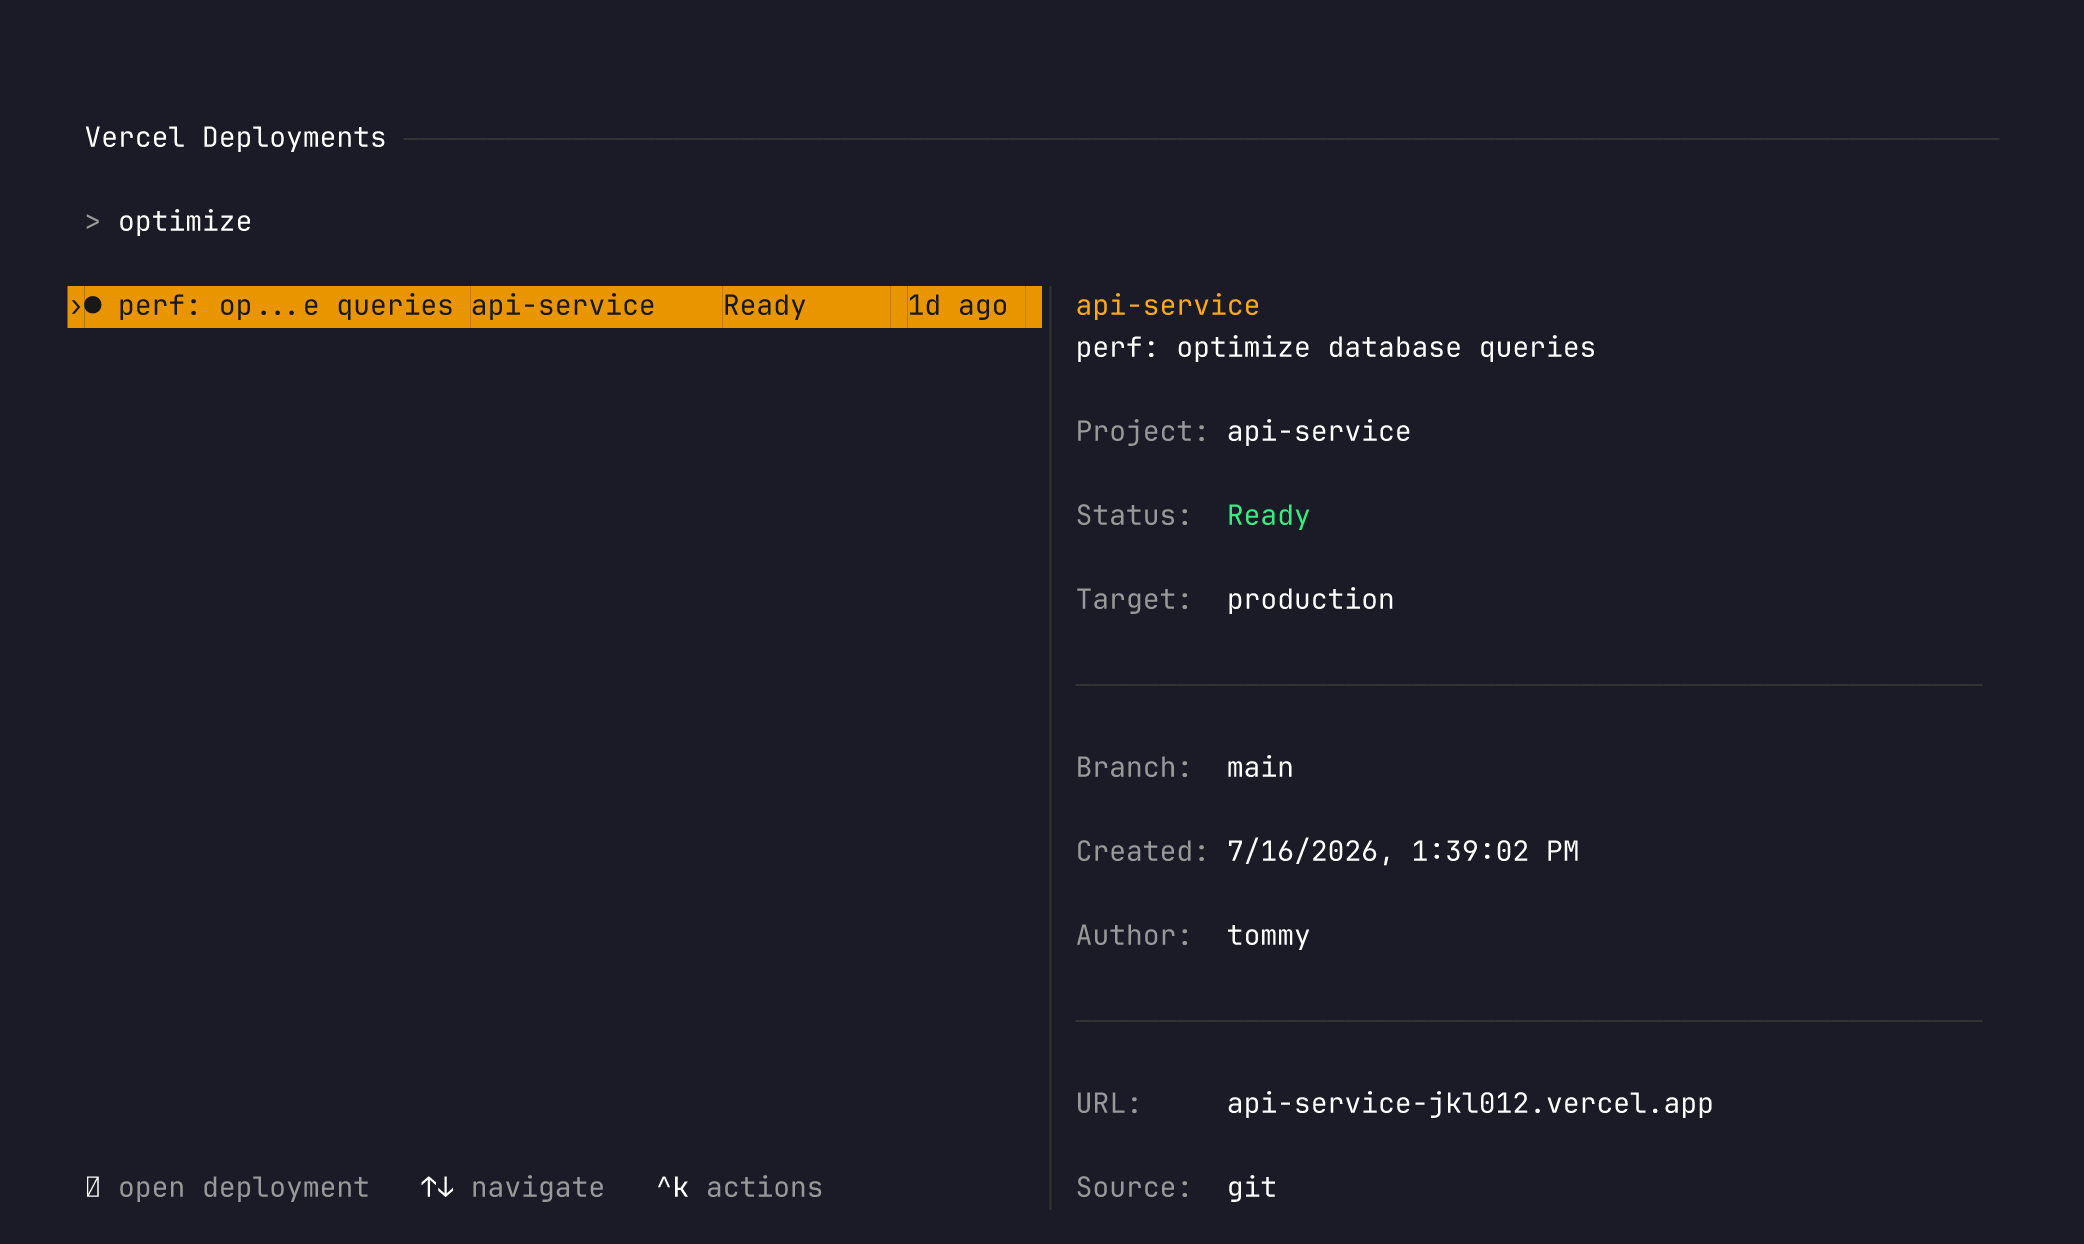
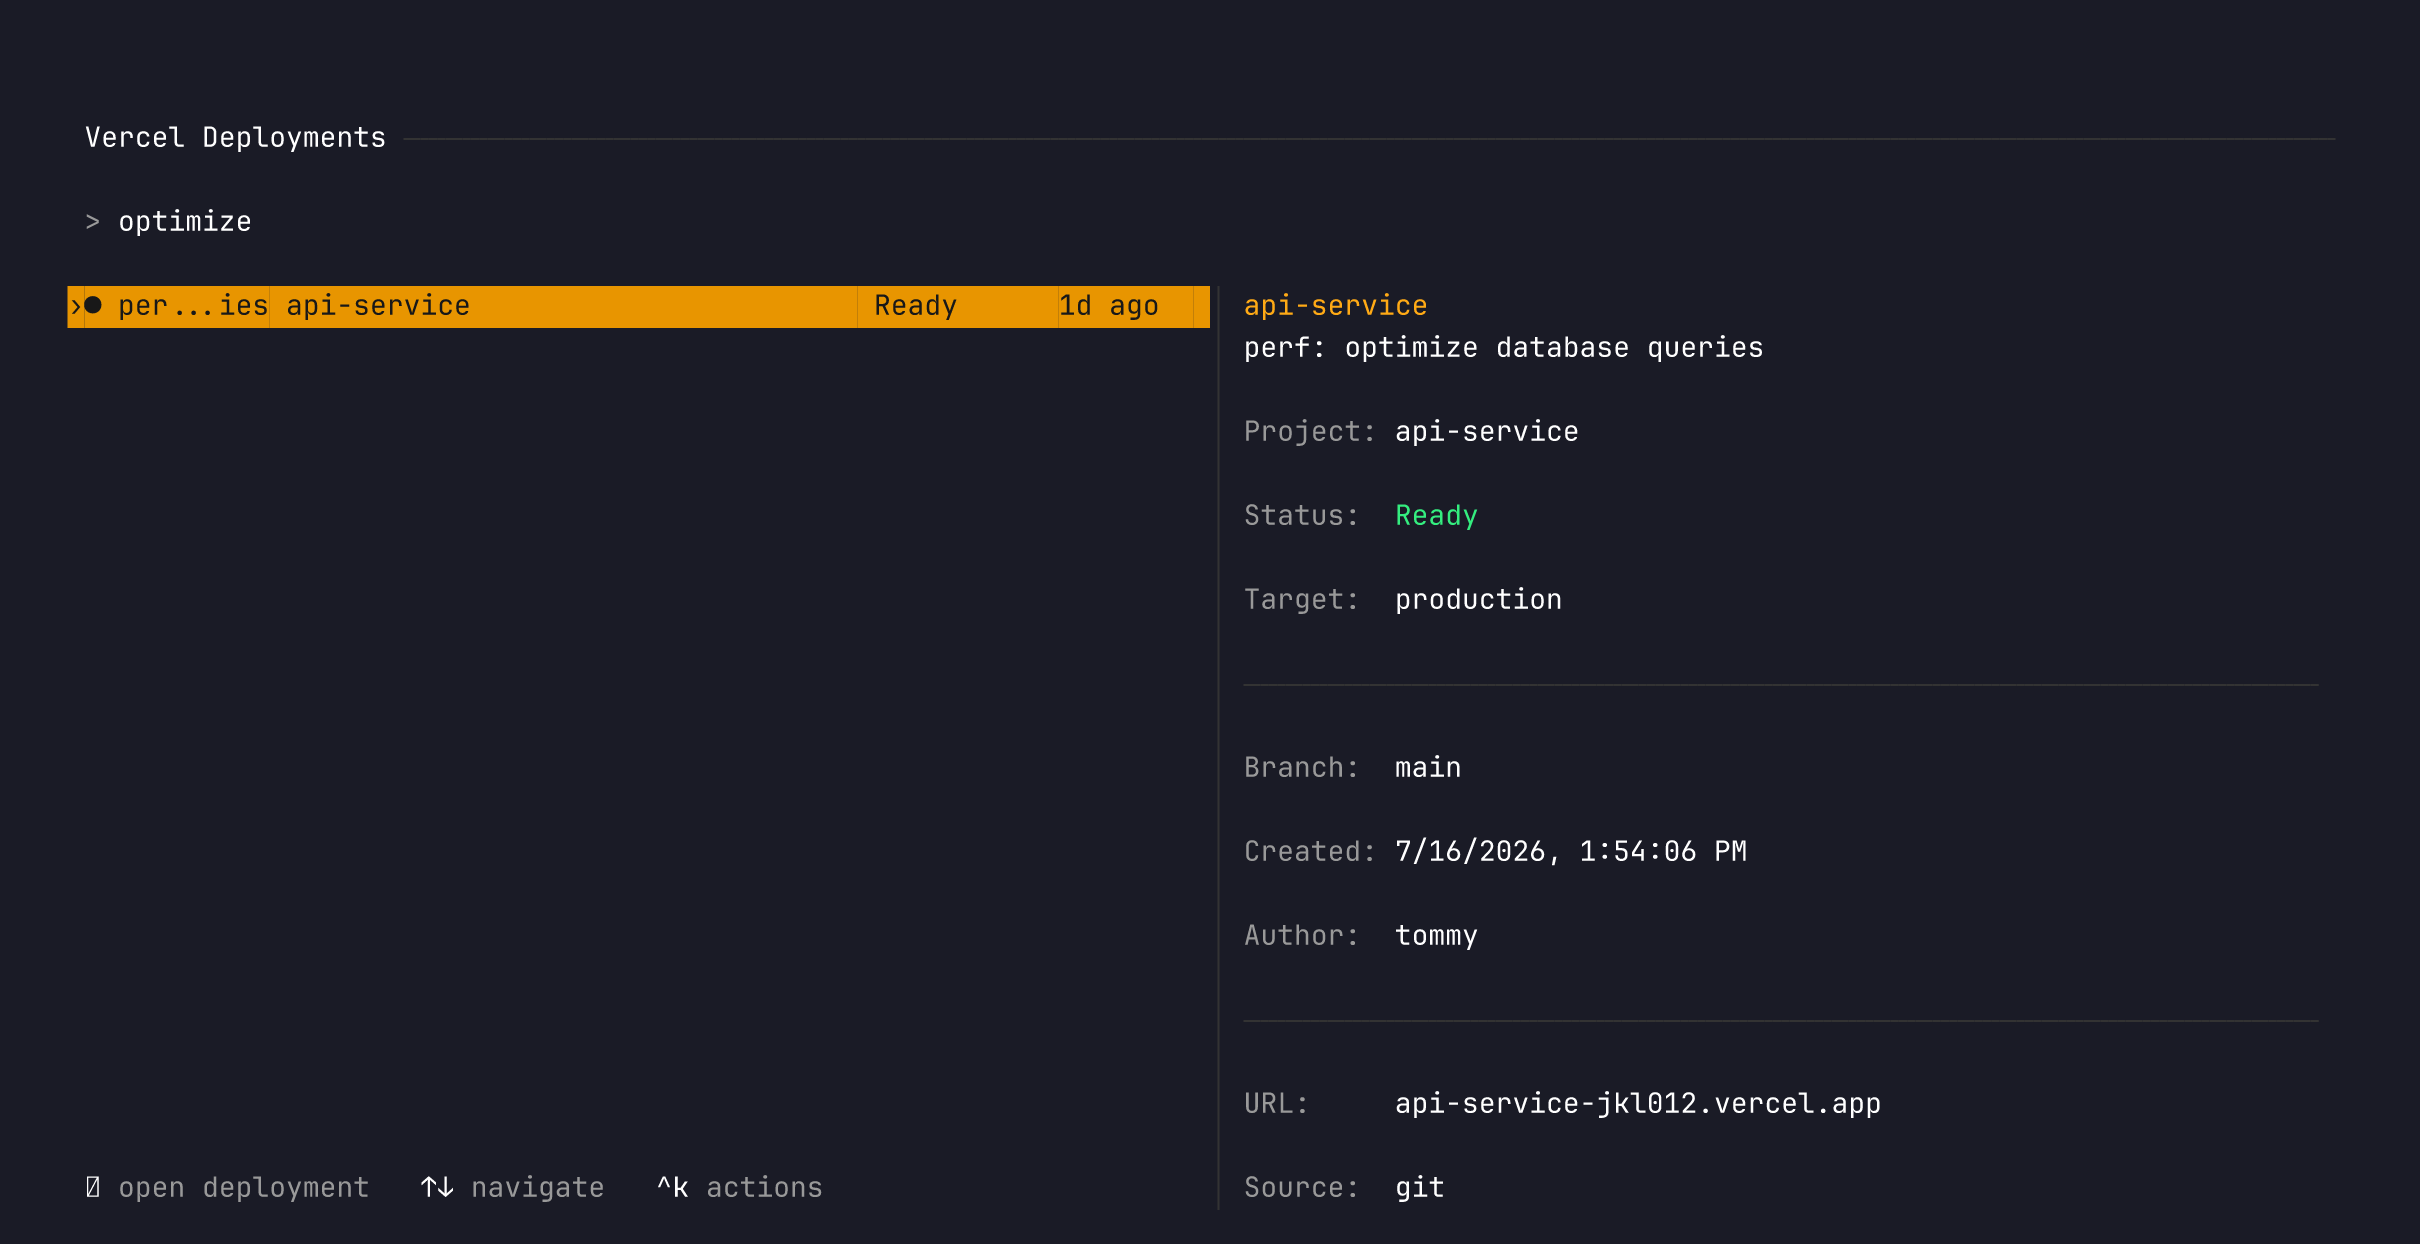
widen accessory tag columns and test terminal
accessoryTagsLayout [34, 10, 8] to fit long project names like
unframer-remix-website-example. Test terminal widened to 140x30
to match real usage. Screenshots retaken at new dimensions.

Session: ses_08e93503effel22Vr3kmMyvk1J

diff --git a/src/search-deployments.vitest.tsx b/src/search-deployments.vitest.tsx
@@ -10,8 +10,8 @@ beforeEach(async () => {
   session = await launchTerminal({
     command: 'bun',
     args: ['src/search-deployments-demo.tsx'],
-    cols: 90,
-    rows: 25,
+    cols: 140,
+    rows: 30,
     cwd: __dirname + '/..',
   })
 })
@@ -29,27 +29,32 @@ test('list shows deployments after loading', async () => {
     "
 
 
-       Vercel Deployments ─────────────────────────────────────────────────────────────────
+       Vercel Deployments ───────────────────────────────────────────────────────────────────────────────────────────────────────────────────
 
        > Search Deployments...
 
-      ›● f...e my-app         Ready      5m ago  │ my-app                                 ▲
-       ● f...t my-app         Building   30m ago │ feat: add dark mode toggle             █
-       ● c...s docs-site      Failed     2h ago  │                                        █
-       ● p...s api-service    Ready      1d ago  │ Project: my-app                        ▀
-       ● N...e landing-page   Canceled   3d ago  │
-                                                 │ Status:  Ready
-                                                 │
-                                                 │ Target:  production
-                                                 │
-                                                 │ ──────────────────────────────────────
-                                                 │
-                                                 │ Branch:  main
-                                                 │
-                                                 │ Created: 7/17/2026, 12:11:53 PM
-                                                 │
-                                                 │ Author:  tommy
-       ↵ open deployment   ↑↓ navigate   ^k acti │                                        ▼
+      ›● fea...gle my-app                             Ready      5m ago   │ my-app
+       ● fix...out my-app                             Building   30m ago  │ feat: add dark mode toggle
+       ● cho...ies docs-site                          Failed     2h ago   │
+       ● per...ies api-service                        Ready      1d ago   │ Project: my-app
+       ● No ...age landing-page                       Canceled   3d ago   │
+                                                                          │ Status:  Ready
+                                                                          │
+                                                                          │ Target:  production
+                                                                          │
+                                                                          │ ────────────────────────────────────────────────────────────────
+                                                                          │
+                                                                          │ Branch:  main
+                                                                          │
+                                                                          │ Created: 7/17/2026, 1:48:44 PM
+                                                                          │
+                                                                          │ Author:  tommy
+                                                                          │
+                                                                          │ ────────────────────────────────────────────────────────────────
+                                                                          │
+                                                                          │ URL:     my-app-abc123.vercel.app
+                                                                          │
+       ↵ open deployment   ↑↓ navigate   ^k actions                       │ Source:  git
 
     "
   `)
@@ -69,27 +74,32 @@ test('navigate between deployments with arrow keys', async () => {
     "
 
 
-       Vercel Deployments ─────────────────────────────────────────────────────────────────
+       Vercel Deployments ───────────────────────────────────────────────────────────────────────────────────────────────────────────────────
 
        > Search Deployments...
 
-       ● f...e my-app         Ready      5m ago  │ my-app                                 ▲
-      ›● f...t my-app         Building   30m ago │ fix: resolve login timeout             █
-       ● c...s docs-site      Failed     2h ago  │                                        █
-       ● p...s api-service    Ready      1d ago  │ Project: my-app                        ▀
-       ● N...e landing-page   Canceled   3d ago  │
-                                                 │ Status:  Building
-                                                 │
-                                                 │ Target:  staging
-                                                 │
-                                                 │ ──────────────────────────────────────
-                                                 │
-                                                 │ Branch:  fix/login-timeout
-                                                 │
-                                                 │ Created: 7/17/2026, 11:46:53 AM
-                                                 │
-                                                 │ Author:  tommy
-       ↵ open deployment   ↑↓ navigate   ^k acti │                                        ▼
+       ● fea...gle my-app                             Ready      5m ago   │ my-app
+      ›● fix...out my-app                             Building   30m ago  │ fix: resolve login timeout
+       ● cho...ies docs-site                          Failed     2h ago   │
+       ● per...ies api-service                        Ready      1d ago   │ Project: my-app
+       ● No ...age landing-page                       Canceled   3d ago   │
+                                                                          │ Status:  Building
+                                                                          │
+                                                                          │ Target:  staging
+                                                                          │
+                                                                          │ ────────────────────────────────────────────────────────────────
+                                                                          │
+                                                                          │ Branch:  fix/login-timeout
+                                                                          │
+                                                                          │ Created: 7/17/2026, 1:23:45 PM
+                                                                          │
+                                                                          │ Author:  tommy
+                                                                          │
+                                                                          │ ────────────────────────────────────────────────────────────────
+                                                                          │
+                                                                          │ URL:     my-app-def456.vercel.app
+                                                                          │
+       ↵ open deployment   ↑↓ navigate   ^k actions                       │ Source:  git
 
     "
   `)
@@ -101,27 +111,32 @@ test('navigate between deployments with arrow keys', async () => {
     "
 
 
-       Vercel Deployments ─────────────────────────────────────────────────────────────────
+       Vercel Deployments ───────────────────────────────────────────────────────────────────────────────────────────────────────────────────
 
        > Search Deployments...
 
-       ● f...e my-app         Ready      5m ago  │ docs-site                              ▲
-       ● f...t my-app         Building   30m ago │ chore: update dependencies             █
-      ›● c...s docs-site      Failed     2h ago  │                                        █
-       ● p...s api-service    Ready      1d ago  │ Project: docs-site                     ▀
-       ● N...e landing-page   Canceled   3d ago  │
-                                                 │ Status:  Failed
-                                                 │
-                                                 │ Target:  preview
-                                                 │
-                                                 │ ──────────────────────────────────────
-                                                 │
-                                                 │ Branch:  chore/deps
-                                                 │
-                                                 │ Created: 7/17/2026, 10:16:53 AM
-                                                 │
-                                                 │ Author:  alice
-       ↵ open deployment   ↑↓ navigate   ^k acti │                                        ▼
+       ● fea...gle my-app                             Ready      5m ago   │ docs-site
+       ● fix...out my-app                             Building   30m ago  │ chore: update dependencies
+      ›● cho...ies docs-site                          Failed     2h ago   │
+       ● per...ies api-service                        Ready      1d ago   │ Project: docs-site
+       ● No ...age landing-page                       Canceled   3d ago   │
+                                                                          │ Status:  Failed
+                                                                          │
+                                                                          │ Target:  preview
+                                                                          │
+                                                                          │ ────────────────────────────────────────────────────────────────
+                                                                          │
+                                                                          │ Branch:  chore/deps
+                                                                          │
+                                                                          │ Created: 7/17/2026, 11:53:45 AM
+                                                                          │
+                                                                          │ Author:  alice
+                                                                          │
+                                                                          │ ────────────────────────────────────────────────────────────────
+                                                                          │
+                                                                          │ URL:     docs-site-ghi789.vercel.app
+                                                                          │
+       ↵ open deployment   ↑↓ navigate   ^k actions                       │ Source:  git
 
     "
   `)
@@ -142,27 +157,32 @@ test('search filters deployments', async () => {
     "
 
 
-       Vercel Deployments ─────────────────────────────────────────────────────────────────
+       Vercel Deployments ───────────────────────────────────────────────────────────────────────────────────────────────────────────────────
 
        > optimize
 
-      ›● p...s api-service    Ready      1d ago  │ api-service                            ▲
-                                                 │ perf: optimize database queries        █
-                                                 │                                        █
-                                                 │ Project: api-service                   ▀
-                                                 │
-                                                 │ Status:  Ready
-                                                 │
-                                                 │ Target:  production
-                                                 │
-                                                 │ ──────────────────────────────────────
-                                                 │
-                                                 │ Branch:  main
-                                                 │
-                                                 │ Created: 7/16/2026, 12:16:54 PM
-                                                 │
-                                                 │ Author:  tommy
-       ↵ open deployment   ↑↓ navigate   ^k acti │                                        ▼
+      ›● per...ies api-service                        Ready      1d ago   │ api-service
+                                                                          │ perf: optimize database queries
+                                                                          │
+                                                                          │ Project: api-service
+                                                                          │
+                                                                          │ Status:  Ready
+                                                                          │
+                                                                          │ Target:  production
+                                                                          │
+                                                                          │ ────────────────────────────────────────────────────────────────
+                                                                          │
+                                                                          │ Branch:  main
+                                                                          │
+                                                                          │ Created: 7/16/2026, 1:53:46 PM
+                                                                          │
+                                                                          │ Author:  tommy
+                                                                          │
+                                                                          │ ────────────────────────────────────────────────────────────────
+                                                                          │
+                                                                          │ URL:     api-service-jkl012.vercel.app
+                                                                          │
+       ↵ open deployment   ↑↓ navigate   ^k actions                       │ Source:  git
 
     "
   `)

diff --git a/src/search-deployments-demo.tsx b/src/search-deployments-demo.tsx
@@ -128,7 +128,7 @@ function SearchDeploymentsDemo() {
       navigationTitle="Vercel Deployments"
       isLoading={isLoading}
       isShowingDetail={true}
-      accessoryTagsLayout={[14, 10, 7]}
+      accessoryTagsLayout={[34, 10, 8]}
     >
       {deployments.map((deployment: Deployment) => {
         const commitMessage = getCommitMessage(deployment)

diff --git a/src/search-deployments.tsx b/src/search-deployments.tsx
@@ -66,7 +66,7 @@ export default function SearchDeployments() {
       navigationTitle="Vercel Deployments"
       isLoading={isLoading}
       isShowingDetail={true}
-      accessoryTagsLayout={[14, 10, 7]}
+      accessoryTagsLayout={[34, 10, 8]}
       searchBarAccessory={
         teams && teams.length > 0 ? (
           <List.Dropdown